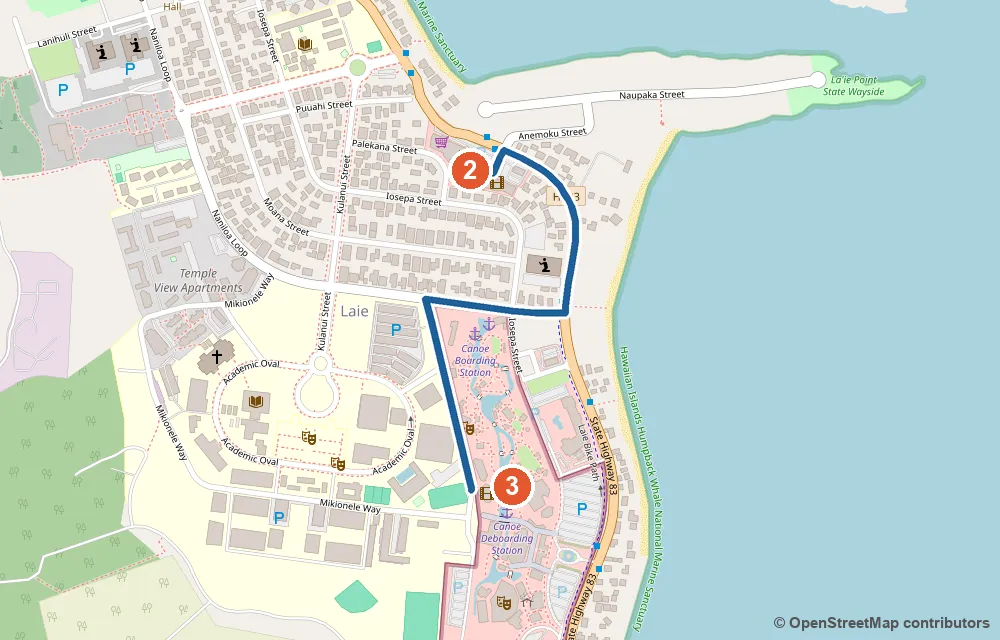
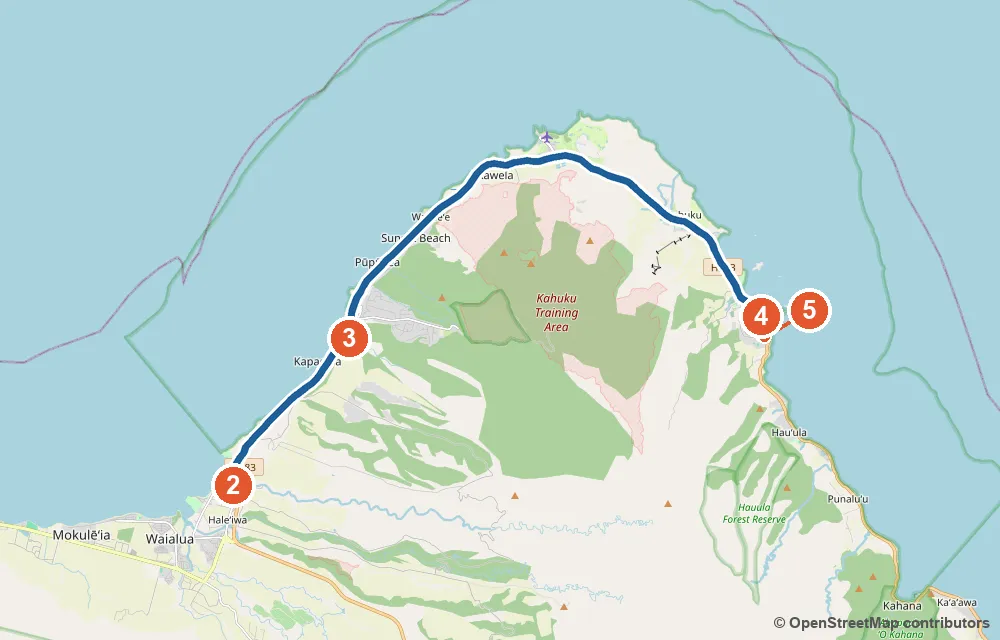
11/10 가는 길 노스쇼어 드라이브 · 오는 길 최단

diff --git a/index.html b/index.html
@@ -12,7 +12,7 @@
 // GitHub Pages 는 HTML 을 10분 캐시한다(헤더는 못 바꿈) → 열 때마다 version.json 을 캐시 없이 확인해
 // 새 버전이면 주소에 ?v=버전 을 붙여 한 번만 새로 불러온다 (같은 버전으로 이미 시도했으면 멈춤)
 (function () {
-  var BUILD = 'c76263367a';
+  var BUILD = '9b4f8d6c66';
   try {
     fetch('version.json?t=' + Date.now(), { cache: 'no-store' })
       .then(function (r) { return r.ok ? r.json() : null; })
@@ -331,7 +331,7 @@ footer { max-width: 1100px; margin: 0 auto; padding: 0 16px 48px; color: var(--m
   </div>
   <svg class="wave" viewBox="0 0 1440 80" preserveAspectRatio="none" aria-hidden="true"><path d="M0,44 C220,84 470,4 720,34 C970,64 1210,14 1440,40 L1440,80 L0,80 Z"/></svg>
 </header>
-<nav class="days"><div class="nav-in"><div class="nav-row days-row"><a class="dchip c0" href="#118-일-아침-수영-핑크-필박스-해변-커피-요코하마-베이-코올리나-저녁-h-mart">11/8<small>일</small></a><a class="dchip c1" href="#119-월-와이키키-수영-다이아몬드헤드-콘도-휴식-sky-waikiki-노을-저녁">11/9<small>월</small></a><a class="dchip c2" href="#1110-화-세븐-브라더스-폴리네시안-문화센터-pcc">11/10<small>화</small></a><a class="dchip c3" href="#1111-수-출발-veterans-day-공휴일">11/11<small>수</small></a><a class="dchip c4" href="#114-수-도착-짐부터-호텔에-가볍게">11/4<small>수</small></a><a class="dchip c5" href="#115-목-진주만-와이켈레-아울렛">11/5<small>목</small></a><a class="dchip c6" href="#116-금-동부-해안-카일루아-해안-먼저-저녁은-카일루아">11/6<small>금</small></a><a class="dchip c7" href="#117-토-체크아웃-와이켈레-골프-큰형나-교회-작은형부모님-비치타워-체크인">11/7<small>토</small></a></div><div class="nav-row sec-row"><a href="#지금-예약확인할-것">🚨예약</a><a href="#항공-서울팀-3명-현지-시각">✈항공</a><a href="#1-한눈에-보기">🗓요약</a><a href="#장소-우선순위-구글-리뷰-수-순-113">🏆순위</a><a href="#구글-지도-장소-누르면-지도-앱이-열림-저장-별표">⭐지도</a><a href="#3-하이킹-가이드북-표와-조사-결과-대조">📖참고</a><a href="#8-카톡-공유용">💬카톡</a><a href="#출발-전-체크리스트-카톡-공유용">✅체크</a></div></div></nav>
+<nav class="days"><div class="nav-in"><div class="nav-row days-row"><a class="dchip c0" href="#118-일-아침-수영-핑크-필박스-해변-커피-요코하마-베이-코올리나-저녁-h-mart">11/8<small>일</small></a><a class="dchip c1" href="#119-월-와이키키-수영-다이아몬드헤드-콘도-휴식-sky-waikiki-노을-저녁">11/9<small>월</small></a><a class="dchip c2" href="#1110-화-노스쇼어-드라이브-세븐-브라더스-폴리네시안-문화센터-pcc">11/10<small>화</small></a><a class="dchip c3" href="#1111-수-출발-veterans-day-공휴일">11/11<small>수</small></a><a class="dchip c4" href="#114-수-도착-짐부터-호텔에-가볍게">11/4<small>수</small></a><a class="dchip c5" href="#115-목-진주만-와이켈레-아울렛">11/5<small>목</small></a><a class="dchip c6" href="#116-금-동부-해안-카일루아-해안-먼저-저녁은-카일루아">11/6<small>금</small></a><a class="dchip c7" href="#117-토-체크아웃-와이켈레-골프-큰형나-교회-작은형부모님-비치타워-체크인">11/7<small>토</small></a></div><div class="nav-row sec-row"><a href="#지금-예약확인할-것">🚨예약</a><a href="#항공-서울팀-3명-현지-시각">✈항공</a><a href="#1-한눈에-보기">🗓요약</a><a href="#장소-우선순위-구글-리뷰-수-순-113">🏆순위</a><a href="#구글-지도-장소-누르면-지도-앱이-열림-저장-별표">⭐지도</a><a href="#3-하이킹-가이드북-표와-조사-결과-대조">📖참고</a><a href="#8-카톡-공유용">💬카톡</a><a href="#출발-전-체크리스트-카톡-공유용">✅체크</a></div></div></nav>
 <main>
 <blockquote class="info">
 <p><strong>2026-11-02 웹 조사 + Codex 검수 반영.</strong> <strong>11/3</strong> 가이드북 지도 316곳 대조 · 구글 리뷰 순위 · 현지인 평가 · 메뉴 가격 추가. (미확인) = 출처 상충 또는 공식 확인 실패 → 전날 구글맵·전화로 재확인<br />
@@ -354,7 +354,7 @@ footer { max-width: 1100px; margin: 0 auto; padding: 0 16px 48px; color: var(--m
 </section><section class="sec hotel"><div class="sec-head"><span class="sec-ic">🏨</span><h2 id="숙소-메리어트-3박-비치타워-콘도-4박-걸어서-3분">숙소</h2><small>메리어트 3박 · 비치타워 콘도 4박 (걸어서 3분)</small></div>
 <div class="tickets"><div class="hotel"><div class="tk-top"><span>11/4 (수) – 11/7 (토) · 3박 · 아고다</span></div><div class="ht-name">와이키키 비치 메리어트 리조트 &amp; 스파</div><div class="ht-times"><div><span>체크인</span><b>15:00</b><small>11/4 (수)</small></div><div><span>체크아웃</span><b>11:00</b><small>11/7 (토)</small></div></div><dl class="ht-facts"><dt>☎ 전화</dt><dd><ul class="ht-fac"><li>한국에서 <strong>001-1-808-922-6611</strong> (KT 001 · LG U+ 002 · SK 00700)</li><li>휴대폰은 <strong><a href="tel:+18089226611">+1 808 922 6611</a></strong> (누르면 바로 걸려요)</li><li>프런트 24시간 · 하와이는 한국보다 19시간 늦어요</li></ul></dd><dt>🛏 방</dt><dd><strong>객실 2개 예약 확정</strong> — 방 1: 시티뷰 퀸 1 또는 더블 2 (성인 2) · 방 2: 와이키키 시티뷰 킹 1 + 소파베드, 발코니 (성인 3) — <strong>침대는 킹 1 + 소파베드뿐</strong> (추가 침대·침대 2개 방 변경 안 됨, 11/3 확인)</dd><dt>🚿 욕실</dt><dd>객실마다 1개</dd><dt>🍳 조식</dt><dd><strong>방마다 성인 2명 포함</strong> (전화 확인 11/3) — 2번 방 세 번째 사람은 <strong>추가 요금</strong> · 2층 Kuhio Beach Grill 뷔페 (05:00–11:00)</dd><dt>🅿 주차</dt><dd><strong>호텔 셀프 주차</strong> $65/일 · 발렛 $80/일 (세금 별도 · 셀프 3박 약 $204) — 근처 반얀 주차장은 24시간 $50 (공사 중 요금 · 높이 183cm 제한)이라 하루 $15 정도 차이 · ⚠ 후기: 셀프 주차장이 좁고 자주 꽉 차서 발렛으로 돌린 일, SUV가 높아 못 들어가 발렛 쓴 일 있음 (2024~2026) · <strong>미리 예약 필요 없음</strong> (11/3 호텔 확인)</dd><dt>🏝 시설</dt><dd><ul class="ht-fac"><li>🏊 <strong>수영장 2개</strong> — 옥상 Queensbreak에 가족 풀 + 21세 이상 성인 풀, 온수 욕조 (07:00–22:00)</li><li>🍽 <strong>식당·바·카페 7곳</strong> — Kuhio Beach Grill (조식 뷔페 05–11, 2층) · Arancino di Mare (이탈리안 저녁 17–21) · Queensbreak 레스토랑·풀사이드 바 (옥상 11–23) · 스타벅스 2곳 · Island Vintage 셰이브아이스 — Sansei·DK Steakhouse는 2025.9 폐업</li><li>🛒 <strong>ABC 스토어</strong> (로비층 편의점)</li><li>🧺 <strong>셀프 세탁실</strong> (Paoakalani 타워 2층) — 세탁·건조 각 $6.50 (2026.5 투숙 후기), 카드 결제 · 드라이클리닝 서비스 별도</li><li>💆 Royal Kaila 스파 (09–18) · 피트니스 24시간</li><li>🌺 우쿨렐레·훌라·레이 만들기 수업 (리조트피 포함)</li><li>🎭 Paina Waikiki 루아우 디너쇼 (월·수·금·토·일, 별도 예약)</li><li>🗣 일본어 직원 있음 · 한국어 직원 없음 (11/3 전화 확인)</li></ul></dd></dl><ul class="ht-notes"><li>11/4 체크인 전·11/7 체크아웃 뒤 <strong>벨데스크 짐 보관</strong></li><li>리조트피 객실당 1박 $59 + 세금 (약 $70, 현장 결제 — Wi-Fi·비치체어 또는 부기보드·문화 수업 포함)</li><li>체크인은 예약자 본인 여권 + 실물 카드</li></ul></div><div class="hotel"><div class="tk-top"><span>11/7 (토) – 11/11 (수) · 4박</span></div><div class="ht-name">와이키키 비치 타워 콘도 (에어비앤비)</div><div class="ht-times"><div><span>체크인</span><b>15:00</b><small>11/7 (토)</small></div><div><span>체크아웃</span><b>11:00</b><small>11/11 (수)</small></div></div><dl class="ht-facts"><dt>☎ 전화</dt><dd><ul class="ht-fac"><li>관리 회사(캡틴 쿡 리조트)는 <strong>에어비앤비 앱 메시지</strong></li><li>관리자 전화번호는 11/5 15:00(하와이)부터 앱의 입실 안내에 나와요</li></ul></dd><dt>🛏 방</dt><dd><strong>침실 2개</strong> — 안방 킹 1 · 게스트룸 트윈 2 (요청 시 킹 1) · 거실 퀸 소파베드 · 최대 6명 · 실내 약 107㎡ + 오션뷰 발코니</dd><dt>🚿 욕실</dt><dd><strong>2개</strong> (안방 전용 1 + 공용 1)</dd><dt>🍳 조식</dt><dd>없음 — 주방 완비, 아침은 장봐서</dd><dt>🅿 주차</dt><dd><strong>발렛 1대 무료</strong> (차 높이 188cm까지, 셔틀 크기 밴 불가) · 차량 사전 등록 필요 없음 · 머무는 동안만 · 리조트피 없음</dd><dt>🏝 시설</dt><dd><ul class="ht-fac"><li>🧺 집 안 <strong>세탁기·건조기</strong> (무료)</li><li>🏊 건물 수영장·스파·피트니스</li><li>🍳 주방 완비</li></ul></dd></dl><ul class="ht-notes"><li>체크인·체크아웃 시각은 <strong>에어비앤비 예약·호스트 안내 기준</strong></li><li>도착 후 <strong>관리자에게 전화</strong>해서 체크인</li><li>매일 청소·수건 보충 없음</li><li>커피·조미료·식용유·지퍼백 없음</li></ul></div></div>
 </section><section class="sec overview"><div class="sec-head"><span class="sec-ic">🗓</span><h2 id="1-한눈에-보기">한눈에 보기</h2></div>
-<div class="ov-grid"><a class="ov c0" href="#114-수-도착-짐부터-호텔에-가볍게"><div class="ov-head"><b>11/4</b><em>수</em><span>도착</span></div><ul><li><i>🛍</i>월마트 / 돈키호테 (장보기)</li><li><i>🍳</i>기내</li><li><i>🍱</i>Highway Inn 카카아코</li><li><i>🍽</i>🌅 DECK. 일몰 (17:30)</li></ul></a><a class="ov c1" href="#115-목-진주만-와이켈레-아울렛"><div class="ov-head"><b>11/5</b><em>목</em><span>진주만</span></div><ul><li><i>🛍</i><strong>와이켈레 아울렛</strong></li><li><i>🍳</i>메리어트 조식</li><li><i>🍱</i>Restaurant 604</li><li><i>🍽</i>🍝 Arancino (호텔 1층)</li></ul></a><a class="ov c2" href="#116-금-동부-해안-카일루아-해안-먼저-저녁은-카일루아"><div class="ov-head"><b>11/6</b><em>금</em><span>동부 해안</span></div><ul><li><i>🥾</i><strong>마카푸우 등대</strong> · (선택, 아들) 라니카이 필박스</li><li><i>🛍</i><strong>카일루아</strong> 마노아 초콜릿·Whole Foods·타운</li><li><i>🍳</i>메리어트 조식</li><li><i>🍱</i>Kalapawai Café</li><li><i>🍽</i>🍺 <strong>Yard House</strong> (워크인 · 비치워크)</li></ul></a><a class="ov c3" href="#117-토-체크아웃-와이켈레-골프-큰형나-교회-작은형부모님-비치타워-체크인"><div class="ov-head"><b>11/7</b><em>토</em><span>이동일</span></div><ul><li><i>🥾</i>⛳ <strong>와이켈레 골프 12:34</strong> (큰형·나) · <del>다이아몬드헤드</del> ❌</li><li><i>🛍</i>⛪ 교회 10~14 (작은형·부모님) · 🧳 체크아웃 → 비치타워 체크인 15:00</li><li><i>🍳</i>메리어트 조식</li><li><i>🍱</i>각자 (골프장 스낵바 · 교회)</li><li><i>🍽</i>🍚 <strong>Suntory</strong> ✅ 다녀옴 (단품 샤브)</li></ul></a><a class="ov c4" href="#118-일-아침-수영-핑크-필박스-해변-커피-요코하마-베이-코올리나-저녁-h-mart"><div class="ov-head"><b>11/8</b><em>일</em><span>서부 (비 0%) · 11:30 출발</span></div><ul><li><i>🥾</i>🏊 아침 와이키키 수영 · 🥾 <strong>핑크 필박스 (낮)</strong> · 93번 서쪽 해안 (요코하마 베이)</li><li><i>🛍</i>🛒 H Mart (귀갓길)</li><li><i>🍳</i>🍔 각자 (맥도날드 등)</li><li><i>🍱</i>☕ Surf &amp; Sprout 요기</li><li><i>🍽</i>Monkeypod 코올리나</li></ul></a><a class="ov c5" href="#119-월-와이키키-수영-다이아몬드헤드-콘도-휴식-sky-waikiki-노을-저녁"><div class="ov-head"><b>11/9</b><em>월</em><span>와이키키 수영 + 다이아몬드헤드</span></div><ul><li><i>🥾</i>🏊 <strong>와이키키 해변 수영</strong> · <strong>다이아몬드헤드 12:00 (✅ 3명)</strong></li><li><i>🍳</i>🏠 콘도 아침</li><li><i>🍱</i>🏠 콘도 (늦은 점심)</li><li><i>🍽</i>🌅 <strong>SKY Waikiki</strong> (19층 노을)</li></ul></a><a class="ov c6" href="#1110-화-세븐-브라더스-폴리네시안-문화센터-pcc"><div class="ov-head"><b>11/10</b><em>화</em><span>PCC</span></div><ul><li><i>🥾</i><strong>PCC</strong> (마을 · 저녁 · 불쇼 공연)</li><li><i>🍳</i>🏠 콘도 아침</li><li><i>🍱</i>🍔 세븐 브라더스 라이에</li><li><i>🍽</i>PCC 게이트웨이 뷔페</li></ul></a><a class="ov c7" href="#1111-수-출발-veterans-day-공휴일"><div class="ov-head"><b>11/11</b><em>수</em><span>출발</span></div><ul><li><i>🍳</i>🏠 콘도 간단히 · 무스비 포장</li><li><i>🍱</i>기내</li></ul></a></div>
+<div class="ov-grid"><a class="ov c0" href="#114-수-도착-짐부터-호텔에-가볍게"><div class="ov-head"><b>11/4</b><em>수</em><span>도착</span></div><ul><li><i>🛍</i>월마트 / 돈키호테 (장보기)</li><li><i>🍳</i>기내</li><li><i>🍱</i>Highway Inn 카카아코</li><li><i>🍽</i>🌅 DECK. 일몰 (17:30)</li></ul></a><a class="ov c1" href="#115-목-진주만-와이켈레-아울렛"><div class="ov-head"><b>11/5</b><em>목</em><span>진주만</span></div><ul><li><i>🛍</i><strong>와이켈레 아울렛</strong></li><li><i>🍳</i>메리어트 조식</li><li><i>🍱</i>Restaurant 604</li><li><i>🍽</i>🍝 Arancino (호텔 1층)</li></ul></a><a class="ov c2" href="#116-금-동부-해안-카일루아-해안-먼저-저녁은-카일루아"><div class="ov-head"><b>11/6</b><em>금</em><span>동부 해안</span></div><ul><li><i>🥾</i><strong>마카푸우 등대</strong> · (선택, 아들) 라니카이 필박스</li><li><i>🛍</i><strong>카일루아</strong> 마노아 초콜릿·Whole Foods·타운</li><li><i>🍳</i>메리어트 조식</li><li><i>🍱</i>Kalapawai Café</li><li><i>🍽</i>🍺 <strong>Yard House</strong> (워크인 · 비치워크)</li></ul></a><a class="ov c3" href="#117-토-체크아웃-와이켈레-골프-큰형나-교회-작은형부모님-비치타워-체크인"><div class="ov-head"><b>11/7</b><em>토</em><span>이동일</span></div><ul><li><i>🥾</i>⛳ <strong>와이켈레 골프 12:34</strong> (큰형·나) · <del>다이아몬드헤드</del> ❌</li><li><i>🛍</i>⛪ 교회 10~14 (작은형·부모님) · 🧳 체크아웃 → 비치타워 체크인 15:00</li><li><i>🍳</i>메리어트 조식</li><li><i>🍱</i>각자 (골프장 스낵바 · 교회)</li><li><i>🍽</i>🍚 <strong>Suntory</strong> ✅ 다녀옴 (단품 샤브)</li></ul></a><a class="ov c4" href="#118-일-아침-수영-핑크-필박스-해변-커피-요코하마-베이-코올리나-저녁-h-mart"><div class="ov-head"><b>11/8</b><em>일</em><span>서부 (비 0%) · 11:30 출발</span></div><ul><li><i>🥾</i>🏊 아침 와이키키 수영 · 🥾 <strong>핑크 필박스 (낮)</strong> · 93번 서쪽 해안 (요코하마 베이)</li><li><i>🛍</i>🛒 H Mart (귀갓길)</li><li><i>🍳</i>🍔 각자 (맥도날드 등)</li><li><i>🍱</i>☕ Surf &amp; Sprout 요기</li><li><i>🍽</i>Monkeypod 코올리나</li></ul></a><a class="ov c5" href="#119-월-와이키키-수영-다이아몬드헤드-콘도-휴식-sky-waikiki-노을-저녁"><div class="ov-head"><b>11/9</b><em>월</em><span>와이키키 수영 + 다이아몬드헤드</span></div><ul><li><i>🥾</i>🏊 <strong>와이키키 해변 수영</strong> · <strong>다이아몬드헤드 12:00 (✅ 3명)</strong></li><li><i>🍳</i>🏠 콘도 아침</li><li><i>🍱</i>🏠 콘도 (늦은 점심)</li><li><i>🍽</i>🌅 <strong>SKY Waikiki</strong> (19층 노을)</li></ul></a><a class="ov c6" href="#1110-화-노스쇼어-드라이브-세븐-브라더스-폴리네시안-문화센터-pcc"><div class="ov-head"><b>11/10</b><em>화</em><span>PCC</span></div><ul><li><i>🥾</i><strong>PCC</strong> (마을 · 저녁 · 불쇼 공연)</li><li><i>🍳</i>🏠 콘도 아침</li><li><i>🍱</i>🍔 세븐 브라더스 라이에</li><li><i>🍽</i>PCC 게이트웨이 뷔페</li></ul></a><a class="ov c7" href="#1111-수-출발-veterans-day-공휴일"><div class="ov-head"><b>11/11</b><em>수</em><span>출발</span></div><ul><li><i>🍳</i>🏠 콘도 간단히 · 무스비 포장</li><li><i>🍱</i>기내</li></ul></a></div>
 
 </section><section class="sec days"><div class="sec-head"><span class="sec-ic">📍</span><h2 id="2-날짜별-상세-시간-장소-주차">날짜별 상세</h2><small>시간 · 장소 · 주차</small></div>
 <blockquote>
@@ -373,10 +373,11 @@ footer { max-width: 1100px; margin: 0 auto; padding: 0 16px 48px; color: var(--m
 <li>☔ <strong>수영 플랜 B:</strong> 아침 8~9시 소나기(31~47%)가 오면 수영을 9시 반 이후로 — 10시부터 14% 이하</li>
 <li>월요일 휴무 주의: 호놀룰루 미술관 (월·화) · 하나우마 베이 (월·화) · KCC 마켓 (토만) — 그래서 이 조합이에요 · 종일 비면 실내는 <strong>비숍 박물관</strong> (매일 09–17)</li>
 </ul>
-</div></article><article class="day c2" data-date="11/10"><div class="day-head"><div class="date-badge"><b>11/10</b><span>화요일</span></div><div class="day-title"><h3 id="1110-화-세븐-브라더스-폴리네시안-문화센터-pcc">🍔 세븐 브라더스 → 🔥 폴리네시안 문화센터 (PCC)</h3></div></div><div class="day-body">
+</div></article><article class="day c2" data-date="11/10"><div class="day-head"><div class="date-badge"><b>11/10</b><span>화요일</span></div><div class="day-title"><h3 id="1110-화-노스쇼어-드라이브-세븐-브라더스-폴리네시안-문화센터-pcc">🌊 노스쇼어 드라이브 → 🍔 세븐 브라더스 → 🔥 폴리네시안 문화센터 (PCC)</h3></div></div><div class="day-body">
 <p class="wx">🌦 라이에(PCC) ☔ <strong>12~14시 34~41% → 15~17시 47~59% → 저녁 공연 무렵 66~67%</strong> — 강수량은 시간당 0~0.2mm (가는 소나기 수준) · 🌡 25~27°C · 💨 돌풍 14~17m · 마을 구경·공연엔 <strong>우비·접는 우산</strong> · <strong>밤 운전 1시간+</strong> <em>(11/8 14시 갱신)</em></p>
-<figure class="routemap"><img src="maps/1110.webp?v=822be22f90" loading="lazy" width="1000" height="640" alt="11/10 지도"><figcaption><div class="rm-stops"><b>①</b> 비치타워 콘도 → <b>②</b> 세븐 브라더스 라이에 → <b>③</b> PCC → <b>④</b> 비치타워 콘도</div><div class="rm-meta">🚗 하루 운전 약 115km · 막히지 않으면 약 2시간 35분 · 파란 선 = 차</div><div class="rm-links">🧭 구글 지도 길찾기 <a href="https://www.google.com/maps/dir/?api=1&amp;origin=Waikiki+Beach+Tower+2470+Kalakaua+Ave+Honolulu&amp;destination=Waikiki+Beach+Tower+2470+Kalakaua+Ave+Honolulu&amp;travelmode=driving&amp;waypoints=Seven+Brothers+Burgers+55-510+Kamehameha+Hwy+Laie%7CPolynesian+Cultural+Center" target="_blank" rel="noopener">①→④</a></div></figcaption><details class="rm-zoom"><summary>🔍 확대 지도 — 라이에 (②~③)</summary><img src="maps/1110-zoom.webp?v=822be22f90" loading="lazy" width="1000" height="640" alt="11/10 라이에 확대 지도"></details></figure><div class="gallery"><figure><a href="https://commons.wikimedia.org/wiki/File:2023-04-20,_Polynesian_Cultural_Center,_Laie,_Hawaii,_162431.jpg" target="_blank" rel="noopener"><img src="https://thumb.wikimedia.org/wikipedia/commons/thumb/b/b5/2023-04-20%2C_Polynesian_Cultural_Center%2C_Laie%2C_Hawaii%2C_162431.jpg/960px-2023-04-20%2C_Polynesian_Cultural_Center%2C_Laie%2C_Hawaii%2C_162431.jpg?utm_source=commons.wikimedia.org&utm_campaign=imageinfo&utm_content=thumbnail" alt="폴리네시안 문화센터" loading="lazy" decoding="async"></a><figcaption><b>폴리네시안 문화센터</b><small>© Steven Pavlov · CC BY-SA 4.0</small></figcaption></figure><figure><a href="https://commons.wikimedia.org/wiki/File:RedDot_Burger.jpg" target="_blank" rel="noopener"><img src="https://thumb.wikimedia.org/wikipedia/commons/thumb/0/0b/RedDot_Burger.jpg/960px-RedDot_Burger.jpg?utm_source=commons.wikimedia.org&utm_campaign=imageinfo&utm_content=thumbnail" alt="햄버거 — 세븐 브라더스 라이에" loading="lazy" decoding="async"></a><figcaption><b>햄버거 — 세븐 브라더스 라이에</b><small>© Hongreddotbrewhouse · CC BY-SA 3.0</small></figcaption></figure><figure><a href="https://commons.wikimedia.org/wiki/File:Fire_dancer.JPG" target="_blank" rel="noopener"><img src="https://thumb.wikimedia.org/wikipedia/commons/thumb/e/ea/Fire_dancer.JPG/960px-Fire_dancer.JPG?utm_source=commons.wikimedia.org&utm_campaign=imageinfo&utm_content=thumbnail" alt="불칼춤 — HĀ 공연" loading="lazy" decoding="async"></a><figcaption><b>불칼춤 — HĀ 공연</b><small>© Mynameisben123 · CC BY 3.0</small></figcaption></figure><figure><a href="https://commons.wikimedia.org/wiki/File:Roasted_puaa.jpg" target="_blank" rel="noopener"><img src="https://thumb.wikimedia.org/wikipedia/commons/thumb/1/1f/Roasted_puaa.jpg/960px-Roasted_puaa.jpg?utm_source=commons.wikimedia.org&utm_campaign=imageinfo&utm_content=thumbnail" alt="칼루아 피그 — 루아우" loading="lazy" decoding="async"></a><figcaption><b>칼루아 피그 — 루아우</b><small>© Adam · CC BY-SA 2.0</small></figcaption></figure></div><ol class="tl"><li><div class="t">08:30–09:30</div><div class="c"><div class="place">🏠 <strong>콘도 아침 (여유 있게)</strong></div><div class="what">짐은 11/9에 싸 둠 · <strong>우비·접는 우산</strong> 챙기기</div></div></li><li><div class="t">09:50</div><div class="c"><div class="place">출발 (09:35쯤 발렛 요청)</div><div class="park">🅿 발렛</div></div></li><li><div class="t">09:50–11:10</div><div class="c"><div class="place">라이에로 (약 75~80분 · 내비가 고르는 빠른 길)</div><div class="what">동쪽 해안 길(H-3 → 83번)이면 쿠알로아·차이나맨스 햇이 차창으로</div></div></li><li><div class="t">11:10–11:55</div><div class="c"><div class="place">🍔 <a href="https://www.google.com/maps/search/?api=1&query=Seven+Brothers+Burgers+55-510+Kamehameha+Hwy+Laie" target="_blank" rel="noopener"><strong>세븐 브라더스 라이에</strong></a> (55-510 Kamehameha Hwy · <strong>화 09–17</strong> · 2,572 ★4.7)</div><div class="what">점심 — 🍴 <strong>파니올로·데리야키 버거</strong> + 감자튀김 · 가족 버거집, 빨리 나와요 · PCC까지 차 3분</div><div class="park">🅿 자체 주차</div></div></li><li><div class="t">11:55–12:15</div><div class="c"><div class="place">PCC로 → 주차 · 입구</div><div class="park">🅿 <strong>무료 · 입구 셔틀</strong></div></div></li><li><div class="t">12:15</div><div class="c"><div class="place"><strong>PCC 도착</strong> (12:15 개장 · 12:50 카누 프리쇼 목표)</div><div class="park">🅿 <strong>무료 · 입구 셔틀</strong></div></div></li><li><div class="t">12:30–16:15</div><div class="c"><div class="place">PCC 마을 관람</div><div class="what">6개 마을 · 추천 순서 <strong>사모아 12:30 → 카누 쇼 13:00 (12:50 프리쇼) → 피지·하와이 13:30 → 통가 14:00 → 타히티 14:30 → 아오테아로아 15:00</strong> · 남는 시간엔 카누 타기·하와이 여정 극장 · 공연 시간은 대략이라 입구 일정표·PCC 앱으로 확인 · 예약 확인서의 저녁 시각에 맞춰 이동 (마을은 17:30까지)</div></div></li><li><div class="t">16:30–18:00</div><div class="c"><div class="place">🍽 <strong>Gateway 뷔페</strong> (마을 입구 옆 대형 홀 · 16:30–19:00)</div><div class="what">뷔페 + 라이브 음악 · 마을은 17:30까지라 <strong>16:30쯤 마을에서 나와 저녁</strong></div></div></li><li><div class="t">18:45</div><div class="c"><div class="place"><strong>HĀ: Breath of Life</strong> 착석 (실버석)</div><div class="what">공연 19:15–20:35 · <strong>공연 중 휴대폰·사진 금지</strong> · 바람 불면 쌀쌀 → 얇은 겉옷</div></div></li><li><div class="t">20:50–22:05</div><div class="c"><div class="place">귀가 (약 75분)</div><div class="what">Kam Hwy 조명 적은 2차선 · <strong>작은형 혼자 운전</strong> → 피곤하면 PCC 왕복 버스 · 출발 전 GoAkamai로 Pali·Likelike·H-3 야간 통제 확인</div></div></li></ol>
+<figure class="routemap"><img src="maps/1110.webp?v=adc4bac36b" loading="lazy" width="1000" height="640" alt="11/10 지도"><figcaption><div class="rm-stops"><b>①</b> 비치타워 콘도 → <b>②</b> 할레이바 → <b>③</b> 와이메아 베이 → <b>④</b> 세븐 브라더스 라이에 → <b>⑤</b> PCC → <b>⑥</b> 카네오헤 (귀갓길) → <b>⑦</b> 비치타워 콘도</div><div class="rm-meta">🚗 하루 운전 약 150km · 막히지 않으면 약 3시간 7분 · 파란 선 = 차</div><div class="rm-links">🧭 구글 지도 길찾기 <a href="https://www.google.com/maps/dir/?api=1&amp;origin=Waikiki+Beach+Tower+2470+Kalakaua+Ave+Honolulu&amp;destination=Polynesian+Cultural+Center&amp;travelmode=driving&amp;waypoints=Haleiwa+Town+Oahu%7CWaimea+Bay+Beach+Park%7CSeven+Brothers+Burgers+55-510+Kamehameha+Hwy+Laie" target="_blank" rel="noopener">①→⑤</a><a href="https://www.google.com/maps/dir/?api=1&amp;origin=Polynesian+Cultural+Center&amp;destination=Waikiki+Beach+Tower+2470+Kalakaua+Ave+Honolulu&amp;travelmode=driving&amp;waypoints=Kaneohe+Bay+Drive+Kaneohe+Hawaii" target="_blank" rel="noopener">⑤→⑦</a></div></figcaption><details class="rm-zoom"><summary>🔍 확대 지도 — 노스쇼어·라이에 (②~⑤)</summary><img src="maps/1110-zoom.webp?v=adc4bac36b" loading="lazy" width="1000" height="640" alt="11/10 노스쇼어·라이에 확대 지도"></details></figure><div class="gallery"><figure><a href="https://commons.wikimedia.org/wiki/File:2023-04-20,_Polynesian_Cultural_Center,_Laie,_Hawaii,_162431.jpg" target="_blank" rel="noopener"><img src="https://thumb.wikimedia.org/wikipedia/commons/thumb/b/b5/2023-04-20%2C_Polynesian_Cultural_Center%2C_Laie%2C_Hawaii%2C_162431.jpg/960px-2023-04-20%2C_Polynesian_Cultural_Center%2C_Laie%2C_Hawaii%2C_162431.jpg?utm_source=commons.wikimedia.org&utm_campaign=imageinfo&utm_content=thumbnail" alt="폴리네시안 문화센터" loading="lazy" decoding="async"></a><figcaption><b>폴리네시안 문화센터</b><small>© Steven Pavlov · CC BY-SA 4.0</small></figcaption></figure><figure><a href="https://commons.wikimedia.org/wiki/File:RedDot_Burger.jpg" target="_blank" rel="noopener"><img src="https://thumb.wikimedia.org/wikipedia/commons/thumb/0/0b/RedDot_Burger.jpg/960px-RedDot_Burger.jpg?utm_source=commons.wikimedia.org&utm_campaign=imageinfo&utm_content=thumbnail" alt="햄버거 — 세븐 브라더스 라이에" loading="lazy" decoding="async"></a><figcaption><b>햄버거 — 세븐 브라더스 라이에</b><small>© Hongreddotbrewhouse · CC BY-SA 3.0</small></figcaption></figure><figure><a href="https://commons.wikimedia.org/wiki/File:Fire_dancer.JPG" target="_blank" rel="noopener"><img src="https://thumb.wikimedia.org/wikipedia/commons/thumb/e/ea/Fire_dancer.JPG/960px-Fire_dancer.JPG?utm_source=commons.wikimedia.org&utm_campaign=imageinfo&utm_content=thumbnail" alt="불칼춤 — HĀ 공연" loading="lazy" decoding="async"></a><figcaption><b>불칼춤 — HĀ 공연</b><small>© Mynameisben123 · CC BY 3.0</small></figcaption></figure><figure><a href="https://commons.wikimedia.org/wiki/File:Empty_wave_at_Banzai_Pipeline.jpeg" target="_blank" rel="noopener"><img src="https://upload.wikimedia.org/wikipedia/commons/0/03/Empty_wave_at_Banzai_Pipeline.jpeg?utm_source=commons.wikimedia.org&utm_campaign=imageinfo&utm_content=thumbnail_unscaled" alt="노스쇼어 겨울 파도 — 가는 길 드라이브" loading="lazy" decoding="async"></a><figcaption><b>노스쇼어 겨울 파도 — 가는 길 드라이브</b><small>© Mat-fa · CC BY-SA 3.0</small></figcaption></figure></div><ol class="tl"><li><div class="t">08:15–09:15</div><div class="c"><div class="place">🏠 <strong>콘도 아침</strong></div><div class="what">짐은 11/9에 싸 둠 · <strong>우비·접는 우산</strong> 챙기기</div></div></li><li><div class="t">09:30</div><div class="c"><div class="place">출발 (09:15쯤 발렛 요청)</div><div class="park">🅿 발렛</div></div></li><li><div class="t">09:30–11:10</div><div class="c"><div class="place">🌊 <strong>노스쇼어로 돌아서 라이에로</strong> (H-1 → H-2 → 99번 → 할레이바 → 83번 · 약 90~100분)</div><div class="what">최단 길보다 15분쯤 더 · 할레이바 타운 · 라니아케아(거북이 해변) · 와이메아 베이 · 선셋비치·파이프라인이 차창으로 · 11월은 <strong>겨울 큰 파도</strong> 철 · <strong>라니아케아는 길가 주차가 위험해서 차창으로만</strong> · 자리 있으면 와이메아 베이 주차장에서 10분</div></div></li><li><div class="t">11:10–11:55</div><div class="c"><div class="place">🍔 <a href="https://www.google.com/maps/search/?api=1&query=Seven+Brothers+Burgers+55-510+Kamehameha+Hwy+Laie" target="_blank" rel="noopener"><strong>세븐 브라더스 라이에</strong></a> (55-510 Kamehameha Hwy · <strong>화 09–17</strong> · 2,572 ★4.7)</div><div class="what">점심 — 🍴 <strong>파니올로·데리야키 버거</strong> + 감자튀김 · 가족 버거집, 빨리 나와요 · PCC까지 차 3분</div><div class="park">🅿 자체 주차</div></div></li><li><div class="t">11:55–12:15</div><div class="c"><div class="place">PCC로 → 주차 · 입구</div><div class="park">🅿 <strong>무료 · 입구 셔틀</strong></div></div></li><li><div class="t">12:15</div><div class="c"><div class="place"><strong>PCC 도착</strong> (12:15 개장 · 12:50 카누 프리쇼 목표)</div><div class="park">🅿 <strong>무료 · 입구 셔틀</strong></div></div></li><li><div class="t">12:30–16:15</div><div class="c"><div class="place">PCC 마을 관람</div><div class="what">6개 마을 · 추천 순서 <strong>사모아 12:30 → 카누 쇼 13:00 (12:50 프리쇼) → 피지·하와이 13:30 → 통가 14:00 → 타히티 14:30 → 아오테아로아 15:00</strong> · 남는 시간엔 카누 타기·하와이 여정 극장 · 공연 시간은 대략이라 입구 일정표·PCC 앱으로 확인 · 예약 확인서의 저녁 시각에 맞춰 이동 (마을은 17:30까지)</div></div></li><li><div class="t">16:30–18:00</div><div class="c"><div class="place">🍽 <strong>Gateway 뷔페</strong> (마을 입구 옆 대형 홀 · 16:30–19:00)</div><div class="what">뷔페 + 라이브 음악 · 마을은 17:30까지라 <strong>16:30쯤 마을에서 나와 저녁</strong></div></div></li><li><div class="t">18:45</div><div class="c"><div class="place"><strong>HĀ: Breath of Life</strong> 착석 (실버석)</div><div class="what">공연 19:15–20:35 · <strong>공연 중 휴대폰·사진 금지</strong> · 바람 불면 쌀쌀 → 얇은 겉옷</div></div></li><li><div class="t">20:50–22:05</div><div class="c"><div class="place">귀가 — <strong>최단 코스</strong> (동쪽 해안 → 카네오헤 → H-3·리케리케 · 약 75~85분)</div><div class="what">노스쇼어로 돌아오는 것보다 약 15분·25km 짧음 · 라이에~카할루우 구간은 조명 적은 2차선 · <strong>작은형 혼자 운전</strong> → 피곤하면 쉬었다 가기 · 출발 전 GoAkamai로 H-3·리케리케·팔리 야간 통제 확인 · 내비가 고르는 대로</div></div></li></ol>
 <ul>
+<li>🚗 <strong>가는 길은 노스쇼어, 오는 길은 최단 (11/8 밤):</strong> 낮엔 경치 좋은 노스쇼어로 돌아가고 (약 15분 더), 밤엔 어두워 경치가 안 보이니 동쪽 해안 최단 코스로</li>
 <li>🔁 <strong>11/8 오후 변경:</strong> <strong>와이메아 밸리·Giovanni's 뺌</strong> — PCC가 밤 공연까지라 오전은 여유 있게 · <strong>세븐 브라더스 버거</strong> 먹고 바로 PCC</li>
 <li>🔁 <strong>11/8 새벽 재배치:</strong> 노스쇼어를 PCC 날로 합침 — <strong>PCC 일·수 휴무 · 와이메아 밸리 월 휴무</strong> → 둘 다 여는 날은 화요일 · 11/8 노스쇼어 비 65~76% → 이날 40%대</li>
 <li>❌ 이날 빠진 것: <strong>돌 플랜테이션</strong> (09:30 개장이라 밸리 개장과 겹침 · 현지 평 "잠깐 들르는 곳") · <strong>팔리 전망대 → 11/9 귀갓길</strong> · <strong>뵤도인 → 11/9 선택</strong> · 트로피컬 팜스·쿠알로아 (동쪽 해안 길이 빠짐) · <strong>와이메아 밸리·Giovanni's (11/8 오후)</strong> · Haleiwa Joe's</li>
@@ -1103,13 +1104,13 @@ footer { max-width: 1100px; margin: 0 auto; padding: 0 16px 48px; color: var(--m
 </tr>
 <tr>
 <td data-label="코스"><span class="v"><strong>83번 노스쇼어</strong></span></td>
-<td data-label="날짜"><span class="v">❌ 이번엔 빠짐 (11/10은 PCC로 바로 · 11/8 오후)</span></td>
-<td data-label="가는 길 (도로 번호)"><span class="v">와이키키 → H-1 서쪽 → H-2 북쪽 → <strong>99번 Kamehameha Hwy</strong> → 할레이바 → <strong>83번</strong> 해안 → 와이메아 밸리 → 선셋비치 → 카후쿠 Giovanni's → 라이에 PCC · 밤에 돌아올 땐 같은 길</span></td>
+<td data-label="날짜"><span class="v"><strong>11/10 화 가는 길</strong> (드라이브 · 11/8 밤)</span></td>
+<td data-label="가는 길 (도로 번호)"><span class="v">와이키키 → H-1 서쪽 → H-2 북쪽 → <strong>99번 Kamehameha Hwy</strong> → 할레이바 → <strong>83번</strong> 해안 → 라니아케아 → 와이메아 베이 → 선셋비치 → 카후쿠 → 라이에 (세븐 브라더스 → PCC)</span></td>
 <td data-label="볼거리"><span class="v">서핑의 성지 노스쇼어 ✅</span></td>
 </tr>
 <tr>
 <td data-label="코스"><span class="v"><strong>83번 윈드워드</strong></span></td>
-<td data-label="날짜"><span class="v">❌ 이번엔 빠짐 (11/10은 노스쇼어 경유 · 11/9 팔리도 뺌)</span></td>
+<td data-label="날짜"><span class="v">11/10 밤 귀갓길 (라이에 → 카네오헤 → H-3 · 어두워서 경치는 못 봐요)</span></td>
 <td data-label="가는 길 (도로 번호)"><span class="v">와이키키 → <strong>61번 Pali Hwy</strong> (누우아누 팔리 전망대) → <strong>83번 Kahekili Hwy</strong> → 뵤도인 → <strong>83번 Kamehameha Hwy</strong> 해안 따라 북쪽 → 쿠알로아(차이나맨스햇) → 카아아와 → 푸날루우 → 하우울라 → 라이에 PCC · 돌아올 땐 밤이라 같은 길</span></td>
 <td data-label="볼거리"><span class="v">왼쪽 코올라우 산맥, 오른쪽 태평양 ✅</span></td>
 </tr>
@@ -1122,7 +1123,7 @@ footer { max-width: 1100px; margin: 0 auto; padding: 0 16px 48px; color: var(--m
 </tbody>
 </table></div>
 <ul>
-<li>11/10은 와이메아 밸리를 빼서 <strong>라이에(PCC)로 바로</strong> 가요 — 내비가 노스쇼어 길(H-2)이나 동쪽 해안 길(H-3) 중 빠른 쪽을 골라요</li>
+<li>11/10은 <strong>가는 길만 노스쇼어</strong> (할레이바 → 와이메아 베이 → 선셋비치 → 라이에), <strong>오는 길은 동쪽 해안 최단 코스</strong> (밤이라 경치보다 시간)</li>
 <li>가이드북처럼 83번을 하루에 한 바퀴(72번 → 83번 → 노스쇼어 → H-2) 도는 건 약 5시간 + 정차라 부모님과는 무리 → 우리는 3일에 나눠서 지나감</li>
 </ul>
 
@@ -1256,7 +1257,7 @@ footer { max-width: 1100px; margin: 0 auto; padding: 0 16px 48px; color: var(--m
 - ★4.8 이상 대안은 '리뷰 쓰면 서비스' 여부를 검증해서 의심(⚠)이면 빼요 — 옐프 평점 차이 · 개업 시기 · 현지 글<br />
 - 그 대안이 현지 평가에서 "관광객용"이거나 호불호가 갈리고, 지금 장소에 <strong>지역 수상(Hale ʻAina 등)이나 현지인 추천</strong>이 있으면 그대로 둬요.<br />
 - <strong>마지막 만찬처럼 분위기가 목적인 끼니는 예외</strong>로 해요.</p>
-<p><strong>11/3 추가 변경:</strong> 비싼 저녁 3끼를 <strong>맥주집</strong>으로 바꿨어요 — 11/5 Yard House · 11/7 Maui Brewing 와이키키 · 11/9 Waikiki Brewing (모두 숙소에서 걸어가거나 택시 5분이라 운전자도 같이 마셔요) · <strong>11/4 현지 변경:</strong> 11/4 저녁 DECK.→마루가메 우동 · <strong>11/5 저녁 Yard House→Arancino di Mare · 11/6 저녁 Buzz's→Hau Tree(해변 나무 테라스) · 11/7 저녁 Maui Brewing→Suntory(일식)</strong> (하와이식 연속·맥주집 분위기 비선호) · <strong>11/8 저녁 Haleiwa Joe's</strong> (16:30 저녁 시작 + 노을, 와이메아 베이 일몰 대신) · <strong>11/5 밤 추가: 11/6 저녁 Hau Tree→🌮 Surf N Turf Tacos</strong> (48시간 내 취소·변경 수수료 $15/인 → 예약 리스크 없는 워크인으로) · <strong>11/6 확정: Surf N Turf→🍺 Yard House 19:00</strong> (테이크아웃 분위기 → 앉아서 먹는 곳으로) · <strong>11/6 오후: 투어는 15시쯤 복귀 → 이후는 추가 일정으로 재편 (11/7·11/9)</strong> · <strong>11/9 저녁 Waikiki Brewing→🐟 Nico's Pier 38</strong> (맥주집 비선호 + 시푸드 요청) · <strong>11/6 오후: 11/7 점심 Liliha→🍽 Makai Market 푸드코트</strong> (하와이안 메뉴 피로 — 각자 골라 먹기) · 정차지는 한 줄에 하나(블로홀 교훈) · 카페는 뷰 있는 곳으로 · <strong>11/6 밤: 11/7 전면 개편</strong> — <del>다이아몬드헤드</del>·KCC·미술관·알라모아나 취소 → ⛳ 와이켈레 골프 12:34 (큰형·나) + ⛪ 교회 10~14 (작은형·부모님) · 저녁 Suntory <strong>18:30 와쇼쿠 5명 예약 완료</strong> · <strong>11/7 밤: 실제 기록</strong> — 골프 12:34~17:30 완주 (복귀는 작은형 픽업 · 우버 편도 생략) · Suntory 19:30 도착, 단품 와슈규 샤브 $60/인 — <strong>와쇼쿠는 단품 주문 가능, 다음엔 AOI 코스($82·샤브 포함)</strong> · <strong>11/7 밤 ②: 조식 외식 전부 취소</strong> — 다들 아침은 콘도에서 (11/8 Duke's·11/9 Kaila·11/10 Heavenly 예약 안 함) · <strong>11/8 귀갓길 H Mart 카카아코 장보기 추가</strong> · 콘도 도보 아침 대안 조사: Lulu's ★4.4 (오션뷰)·Barefoot ★4.4·Kai Coffee ★4.4 · <strong>11/7 밤 ③: 11/8 스탑 다이어트</strong> — 그린 월드(커피는 숙소 근처 테이크아웃)·라니아케아·헤이아우 뺌, 돌→밸리→Giovanni's→할레이바 4곳만 (이후 타운도 ☔ 비 올 때만으로) · <strong>11/7 밤 ④: 점심을 밸리 앞으로</strong> — Giovanni's 10:50 이른 점심 → 밸리 12:00~14:30 (점심·저녁 간격 3시간 → 5시간) · <strong>11/7 밤 ⑤: 11/8·11/9 재편</strong> — 11/8 오후를 서해안으로 (Haleiwa Joe's·할레이바 타운 ❌ → 요코하마 일몰 직행 + Monkeypod 저녁 · 서쪽 비 0% · 마카하는 차창) · 11/9 = 못 간 곳 만회 — 🥾 다이아몬드헤드 재예약 · 🌊 할로나 블로홀 · Buzz's 점심 · 🏖 <strong>카일루아 비치 수영</strong> (가족 요청 — 첫 바다 수영) · 아일랜드 스노우 · 마노아 초콜릿 · Nico's 유지 · <strong>11/8 새벽 ⑥: 동선 최적화</strong> — 돌 30분 → 밸리 오전 하이킹 → 점심은 돌아 나오는 길 Giovanni's 12:50 (추가 거리 0 · 요코하마 15:15 도착으로 해변 여유 +40분) · <strong>11/8 새벽 ⑦: 3일 재배치</strong> — PCC 일·수 휴무·와이메아 밸리 월 휴무 확인 → <strong>11/8 서부</strong> (코올리나 라군 수영·Monkeypod 점심·요코하마 · 비 0%) · <strong>11/9 다이아몬드헤드·블로홀·카일루아 + 팔리 전망대</strong> · <strong>11/10 노스쇼어+PCC</strong> (와이메아 밸리 09:00 → Giovanni's 카후쿠 → PCC 12:15) · 돌 플랜테이션·쿠알로아·Seven Brothers 뺌, 뵤도인은 11/9 선택 · <strong>11/8 새벽 ⑧: 사용자 정정</strong> — 11/8은 원래 서부 계획(라군 산책·마카하·요코하마·Monkeypod) + H Mart만 (바다 수영은 원래 없었음) · 11/9 할로나 블로홀 뺌 → 팔리 하이웨이로 산 넘어갔다 산 넘어 오기 · 바다 수영은 11/9 카일루아 · <strong>11/8 오전 ⑨: 코올리나 라군 1 오전 수영 확정</strong> (샤워·화장실·Island Country Markets 확인) · ☕ 오션뷰 카페 Hokulea(포시즌스) 추가 · Monkeypod 링크가 와이키키점으로 잡히던 문제 수정 (주소·장소 ID로 고정) · <strong>⑩ 커피는 돌아오는 길로</strong> — Surf &amp; Sprout(와이아나에, 무료 주차) 포장 → 마우나 라히라히 비치 파크 · Hokulea는 발렛·유료 주차만이라 오후엔 비추천 · Michel's 카페 임시 휴업 · <strong>⑪ 11/8 핑크 필박스 오후 하이킹(15:20) 추가 · 바다 수영은 11/9 카일루아만</strong> — 오늘은 10:00 출발 → 라군 산책 → 점심 → 북쪽 끝 → 내려오며 커피·필박스 → H Mart 18:20 · 카에나 포인트 서쪽 트레일은 폐쇄(11/7 공지)라 제외 · <strong>⑫ 순서 변경:</strong> 라군 산책 뺌 → 07:45 출발, <strong>필박스를 선선한 아침(08:40)에 먼저</strong> → Surf &amp; Sprout 커피 → 요코하마 → 돌아오며 Monkeypod 점심 → H Mart → 15:05 콘도 · <strong>⑬ 아침 먹고 9시 출발</strong> — 필박스 09:55 · 늦은 점심 13:35 · 16:20 콘도 · <strong>⑭ 날씨 재조회(11/8 05시) · 날짜별 사진 교체</strong> (11/7 골프·샤브샤브 · 11/8 서부 · 11/9 다이아몬드헤드·팔리·카일루아 · 11/10 와이메아 밸리·Giovanni's·PCC) · <strong>⑮ Codex 검수 반영 (11/8 05시)</strong> — 서향 해안 파도 6~10피트(마른 모래 위에서만) · H-1 동쪽 15시까지 공사 · 필박스 1.5~2시간·엄마·큰형 공원에 먼저 내려드리기 · 물 1인 1.5~2L · 차량털이 대책 강화 · H Mart 1층 마트/2층 푸드코트 · Monkeypod 주차 할인은 미확인 · 일몰 17:52 · 비숍 박물관 주차 $10 · <strong>⑯ 전부 가되 현실 시간으로</strong> — 필박스 10:15~12:00 · 커피 12:35 · 요코하마 13:30 · 늦은 점심 14:45 · H Mart 17:00 · 18:00 콘도 · <strong>⑰ 11:30 출발 (11/8 오전)</strong> — 아침 와이키키 수영·각자 아침 · 필박스 12:45 · 커피 15:05 · 요코하마 16:00 · Monkeypod 이른 저녁 17:15 · H Mart 19:15 · 20:15 콘도 · <strong>⑱ 다이아몬드헤드 12:00 예약 (11/8)</strong> — 3명(아빠·작은형·나) · 콘도 이른 점심 → DH → 엄마·큰형 태워 팔리 → 카일루아 수영 15:00 → Nico's 17:50 · Buzz's 뺌 · <strong>⑲ 11/9 저녁 루아우 (11/8)</strong> — 씨라이프파크 알로하 카이 (불쇼 뷔페 17:00–20:15) · 카일루아 수영 16:05까지 · Nico's·아일랜드 스노우 뺌 · <strong>⑳ 11/9 다시 정리 (11/8 오후)</strong> — 08시 아침 → 11시까지 와이키키 수영 → 11시 다이아몬드헤드 → 콘도 휴식·짐 싸기 → 16시 루아우 출발 · 카일루아·팔리 뺌 · <strong>㉑ 루아우를 Ka Moana로 (11/8 오후)</strong> — 알로하 타워 · 차 15분 · Classic $129 · 17:00–19:45 · 씨라이프파크(35~40분)는 멀어서 뺌 · <strong>㉒ Classic 4명 (11/8)</strong> — 작은형 저녁 약속 · 하얏트 앞 16:35 셔틀 · <strong>㉓ 월요일 루아우 뺌 (11/8 오후)</strong> — 작은형도 불쇼를 보고 싶어 해서 11/10 PCC에서 같이 볼지 결정 중 · 월요일 저녁은 콘도 근처 · <strong>㉔ 11/10 오전 단순화 (11/8 오후)</strong> — 와이메아 밸리·Giovanni's 뺌 · 09:50 출발 → 세븐 브라더스 → PCC 12:15 · <strong>㉕ PCC 표는 Gateway Buffet Package 잠정 (11/8 밤)</strong> — 11/9 아침 가족 확인 후 예약 · <strong>㉖ 11/9 저녁 SKY Waikiki (11/8 밤)</strong> — 19층 옥상 노을 · 17:00 · 4명 · 크루즈는 바람이 세서 뺌 · 발렛 11:00 요청 · 11:15 출발<br />
+<p><strong>11/3 추가 변경:</strong> 비싼 저녁 3끼를 <strong>맥주집</strong>으로 바꿨어요 — 11/5 Yard House · 11/7 Maui Brewing 와이키키 · 11/9 Waikiki Brewing (모두 숙소에서 걸어가거나 택시 5분이라 운전자도 같이 마셔요) · <strong>11/4 현지 변경:</strong> 11/4 저녁 DECK.→마루가메 우동 · <strong>11/5 저녁 Yard House→Arancino di Mare · 11/6 저녁 Buzz's→Hau Tree(해변 나무 테라스) · 11/7 저녁 Maui Brewing→Suntory(일식)</strong> (하와이식 연속·맥주집 분위기 비선호) · <strong>11/8 저녁 Haleiwa Joe's</strong> (16:30 저녁 시작 + 노을, 와이메아 베이 일몰 대신) · <strong>11/5 밤 추가: 11/6 저녁 Hau Tree→🌮 Surf N Turf Tacos</strong> (48시간 내 취소·변경 수수료 $15/인 → 예약 리스크 없는 워크인으로) · <strong>11/6 확정: Surf N Turf→🍺 Yard House 19:00</strong> (테이크아웃 분위기 → 앉아서 먹는 곳으로) · <strong>11/6 오후: 투어는 15시쯤 복귀 → 이후는 추가 일정으로 재편 (11/7·11/9)</strong> · <strong>11/9 저녁 Waikiki Brewing→🐟 Nico's Pier 38</strong> (맥주집 비선호 + 시푸드 요청) · <strong>11/6 오후: 11/7 점심 Liliha→🍽 Makai Market 푸드코트</strong> (하와이안 메뉴 피로 — 각자 골라 먹기) · 정차지는 한 줄에 하나(블로홀 교훈) · 카페는 뷰 있는 곳으로 · <strong>11/6 밤: 11/7 전면 개편</strong> — <del>다이아몬드헤드</del>·KCC·미술관·알라모아나 취소 → ⛳ 와이켈레 골프 12:34 (큰형·나) + ⛪ 교회 10~14 (작은형·부모님) · 저녁 Suntory <strong>18:30 와쇼쿠 5명 예약 완료</strong> · <strong>11/7 밤: 실제 기록</strong> — 골프 12:34~17:30 완주 (복귀는 작은형 픽업 · 우버 편도 생략) · Suntory 19:30 도착, 단품 와슈규 샤브 $60/인 — <strong>와쇼쿠는 단품 주문 가능, 다음엔 AOI 코스($82·샤브 포함)</strong> · <strong>11/7 밤 ②: 조식 외식 전부 취소</strong> — 다들 아침은 콘도에서 (11/8 Duke's·11/9 Kaila·11/10 Heavenly 예약 안 함) · <strong>11/8 귀갓길 H Mart 카카아코 장보기 추가</strong> · 콘도 도보 아침 대안 조사: Lulu's ★4.4 (오션뷰)·Barefoot ★4.4·Kai Coffee ★4.4 · <strong>11/7 밤 ③: 11/8 스탑 다이어트</strong> — 그린 월드(커피는 숙소 근처 테이크아웃)·라니아케아·헤이아우 뺌, 돌→밸리→Giovanni's→할레이바 4곳만 (이후 타운도 ☔ 비 올 때만으로) · <strong>11/7 밤 ④: 점심을 밸리 앞으로</strong> — Giovanni's 10:50 이른 점심 → 밸리 12:00~14:30 (점심·저녁 간격 3시간 → 5시간) · <strong>11/7 밤 ⑤: 11/8·11/9 재편</strong> — 11/8 오후를 서해안으로 (Haleiwa Joe's·할레이바 타운 ❌ → 요코하마 일몰 직행 + Monkeypod 저녁 · 서쪽 비 0% · 마카하는 차창) · 11/9 = 못 간 곳 만회 — 🥾 다이아몬드헤드 재예약 · 🌊 할로나 블로홀 · Buzz's 점심 · 🏖 <strong>카일루아 비치 수영</strong> (가족 요청 — 첫 바다 수영) · 아일랜드 스노우 · 마노아 초콜릿 · Nico's 유지 · <strong>11/8 새벽 ⑥: 동선 최적화</strong> — 돌 30분 → 밸리 오전 하이킹 → 점심은 돌아 나오는 길 Giovanni's 12:50 (추가 거리 0 · 요코하마 15:15 도착으로 해변 여유 +40분) · <strong>11/8 새벽 ⑦: 3일 재배치</strong> — PCC 일·수 휴무·와이메아 밸리 월 휴무 확인 → <strong>11/8 서부</strong> (코올리나 라군 수영·Monkeypod 점심·요코하마 · 비 0%) · <strong>11/9 다이아몬드헤드·블로홀·카일루아 + 팔리 전망대</strong> · <strong>11/10 노스쇼어+PCC</strong> (와이메아 밸리 09:00 → Giovanni's 카후쿠 → PCC 12:15) · 돌 플랜테이션·쿠알로아·Seven Brothers 뺌, 뵤도인은 11/9 선택 · <strong>11/8 새벽 ⑧: 사용자 정정</strong> — 11/8은 원래 서부 계획(라군 산책·마카하·요코하마·Monkeypod) + H Mart만 (바다 수영은 원래 없었음) · 11/9 할로나 블로홀 뺌 → 팔리 하이웨이로 산 넘어갔다 산 넘어 오기 · 바다 수영은 11/9 카일루아 · <strong>11/8 오전 ⑨: 코올리나 라군 1 오전 수영 확정</strong> (샤워·화장실·Island Country Markets 확인) · ☕ 오션뷰 카페 Hokulea(포시즌스) 추가 · Monkeypod 링크가 와이키키점으로 잡히던 문제 수정 (주소·장소 ID로 고정) · <strong>⑩ 커피는 돌아오는 길로</strong> — Surf &amp; Sprout(와이아나에, 무료 주차) 포장 → 마우나 라히라히 비치 파크 · Hokulea는 발렛·유료 주차만이라 오후엔 비추천 · Michel's 카페 임시 휴업 · <strong>⑪ 11/8 핑크 필박스 오후 하이킹(15:20) 추가 · 바다 수영은 11/9 카일루아만</strong> — 오늘은 10:00 출발 → 라군 산책 → 점심 → 북쪽 끝 → 내려오며 커피·필박스 → H Mart 18:20 · 카에나 포인트 서쪽 트레일은 폐쇄(11/7 공지)라 제외 · <strong>⑫ 순서 변경:</strong> 라군 산책 뺌 → 07:45 출발, <strong>필박스를 선선한 아침(08:40)에 먼저</strong> → Surf &amp; Sprout 커피 → 요코하마 → 돌아오며 Monkeypod 점심 → H Mart → 15:05 콘도 · <strong>⑬ 아침 먹고 9시 출발</strong> — 필박스 09:55 · 늦은 점심 13:35 · 16:20 콘도 · <strong>⑭ 날씨 재조회(11/8 05시) · 날짜별 사진 교체</strong> (11/7 골프·샤브샤브 · 11/8 서부 · 11/9 다이아몬드헤드·팔리·카일루아 · 11/10 와이메아 밸리·Giovanni's·PCC) · <strong>⑮ Codex 검수 반영 (11/8 05시)</strong> — 서향 해안 파도 6~10피트(마른 모래 위에서만) · H-1 동쪽 15시까지 공사 · 필박스 1.5~2시간·엄마·큰형 공원에 먼저 내려드리기 · 물 1인 1.5~2L · 차량털이 대책 강화 · H Mart 1층 마트/2층 푸드코트 · Monkeypod 주차 할인은 미확인 · 일몰 17:52 · 비숍 박물관 주차 $10 · <strong>⑯ 전부 가되 현실 시간으로</strong> — 필박스 10:15~12:00 · 커피 12:35 · 요코하마 13:30 · 늦은 점심 14:45 · H Mart 17:00 · 18:00 콘도 · <strong>⑰ 11:30 출발 (11/8 오전)</strong> — 아침 와이키키 수영·각자 아침 · 필박스 12:45 · 커피 15:05 · 요코하마 16:00 · Monkeypod 이른 저녁 17:15 · H Mart 19:15 · 20:15 콘도 · <strong>⑱ 다이아몬드헤드 12:00 예약 (11/8)</strong> — 3명(아빠·작은형·나) · 콘도 이른 점심 → DH → 엄마·큰형 태워 팔리 → 카일루아 수영 15:00 → Nico's 17:50 · Buzz's 뺌 · <strong>⑲ 11/9 저녁 루아우 (11/8)</strong> — 씨라이프파크 알로하 카이 (불쇼 뷔페 17:00–20:15) · 카일루아 수영 16:05까지 · Nico's·아일랜드 스노우 뺌 · <strong>⑳ 11/9 다시 정리 (11/8 오후)</strong> — 08시 아침 → 11시까지 와이키키 수영 → 11시 다이아몬드헤드 → 콘도 휴식·짐 싸기 → 16시 루아우 출발 · 카일루아·팔리 뺌 · <strong>㉑ 루아우를 Ka Moana로 (11/8 오후)</strong> — 알로하 타워 · 차 15분 · Classic $129 · 17:00–19:45 · 씨라이프파크(35~40분)는 멀어서 뺌 · <strong>㉒ Classic 4명 (11/8)</strong> — 작은형 저녁 약속 · 하얏트 앞 16:35 셔틀 · <strong>㉓ 월요일 루아우 뺌 (11/8 오후)</strong> — 작은형도 불쇼를 보고 싶어 해서 11/10 PCC에서 같이 볼지 결정 중 · 월요일 저녁은 콘도 근처 · <strong>㉔ 11/10 오전 단순화 (11/8 오후)</strong> — 와이메아 밸리·Giovanni's 뺌 · 09:50 출발 → 세븐 브라더스 → PCC 12:15 · <strong>㉕ PCC 표는 Gateway Buffet Package 잠정 (11/8 밤)</strong> — 11/9 아침 가족 확인 후 예약 · <strong>㉖ 11/9 저녁 SKY Waikiki (11/8 밤)</strong> — 19층 옥상 노을 · 17:00 · 4명 · 크루즈는 바람이 세서 뺌 · 발렛 11:00 요청 · 11:15 출발 · <strong>㉗ 11/10 가는 길 노스쇼어 드라이브 (11/8 밤)</strong> — 09:30 출발 · 오는 길은 동쪽 해안 최단<br />
 <strong>결과:</strong> 식사 <strong>4끼를 바꿨어요</strong> — 11/4 저녁 DECK. · 11/5 저녁 Tommy Bahama · 11/8 아침 Duke's 조식 뷔페 · 11/10 아침 Heavenly. 기준에 걸린 나머지 3끼(11/4 점심 · 11/7 점심 · 11/9 아침)는 비교해 보고 그대로 뒀어요 <em>(11/7 점심은 이후 11/6에 푸드코트로 변경)</em>. 커피 4곳은 앞서 바꿨고, 트로피컬 팜스는 선택 정차로 더했어요.<br />
 숫자는 11/3에 <strong>구글 지도 API로 직접 받은 값</strong>이에요(리뷰 수 · ★평점). "리뷰 수 1위"는 사람이 가장 많이 갔다는 뜻이고 맛 순위는 아니에요.</p>
 </blockquote>
@@ -2517,9 +2518,9 @@ footer { max-width: 1100px; margin: 0 auto; padding: 0 16px 48px; color: var(--m
 · 🌅 17:00 SKY Waikiki 19층 옥상에서 노을 저녁 (4명 · 작은형은 약속)
 
 11/10(화) 🍔 세븐 브라더스 + 🔥 폴리네시안 문화센터
-· 🏠 콘도 아침 (여유) → 09:50 출발
+· 🏠 콘도 아침 → 09:30 출발 → 🌊 노스쇼어 드라이브 (할레이바·와이메아 베이·선셋비치)
 · 🍔 세븐 브라더스 라이에 버거 점심 → PCC 12:15 도착
-· 🍽 게이트웨이 뷔페 16:30 → 🔥 HĀ 불쇼 19:15 → 🌙 22시 귀가
+· 🍽 게이트웨이 뷔페 16:30 → 🔥 HĀ 불쇼 19:15 → 🌙 22시 귀가 (최단 코스)
 
 11/11(수) 🛫 출발
 · 🏠 콘도 간단히 → 07:30 콘도 출발
@@ -2584,7 +2585,7 @@ footer { max-width: 1100px; margin: 0 auto; padding: 0 16px 48px; color: var(--m
 ☐ 위탁 수하물 23kg 초과 주의 — 귀국 때 아울렛 쇼핑 짐도
 ☐ 액체류 100ml 이하·투명 지퍼백 (총 1L) · 보조배터리는 기내 가방에</pre></div></section>
 </main>
-<footer>업데이트 2026-11-09 20:21 KST · 영업시간·주차는 2026-11-02 웹 조사 + Codex 검수 기준입니다. (미확인) 항목은 방문 전날 구글맵·전화로 다시 확인하세요. 체크 표시는 이 기기에만 저장됩니다. 사진: Wikimedia Commons 자유 이용 사진 — 사진을 누르면 저작자·라이선스 원문으로 이동합니다.</footer>
+<footer>업데이트 2026-11-09 20:26 KST · 영업시간·주차는 2026-11-02 웹 조사 + Codex 검수 기준입니다. (미확인) 항목은 방문 전날 구글맵·전화로 다시 확인하세요. 체크 표시는 이 기기에만 저장됩니다. 사진: Wikimedia Commons 자유 이용 사진 — 사진을 누르면 저작자·라이선스 원문으로 이동합니다.</footer>
 <button class="top-btn" id="topBtn" aria-label="맨 위로">↑</button>
 <script>
 (function () {
